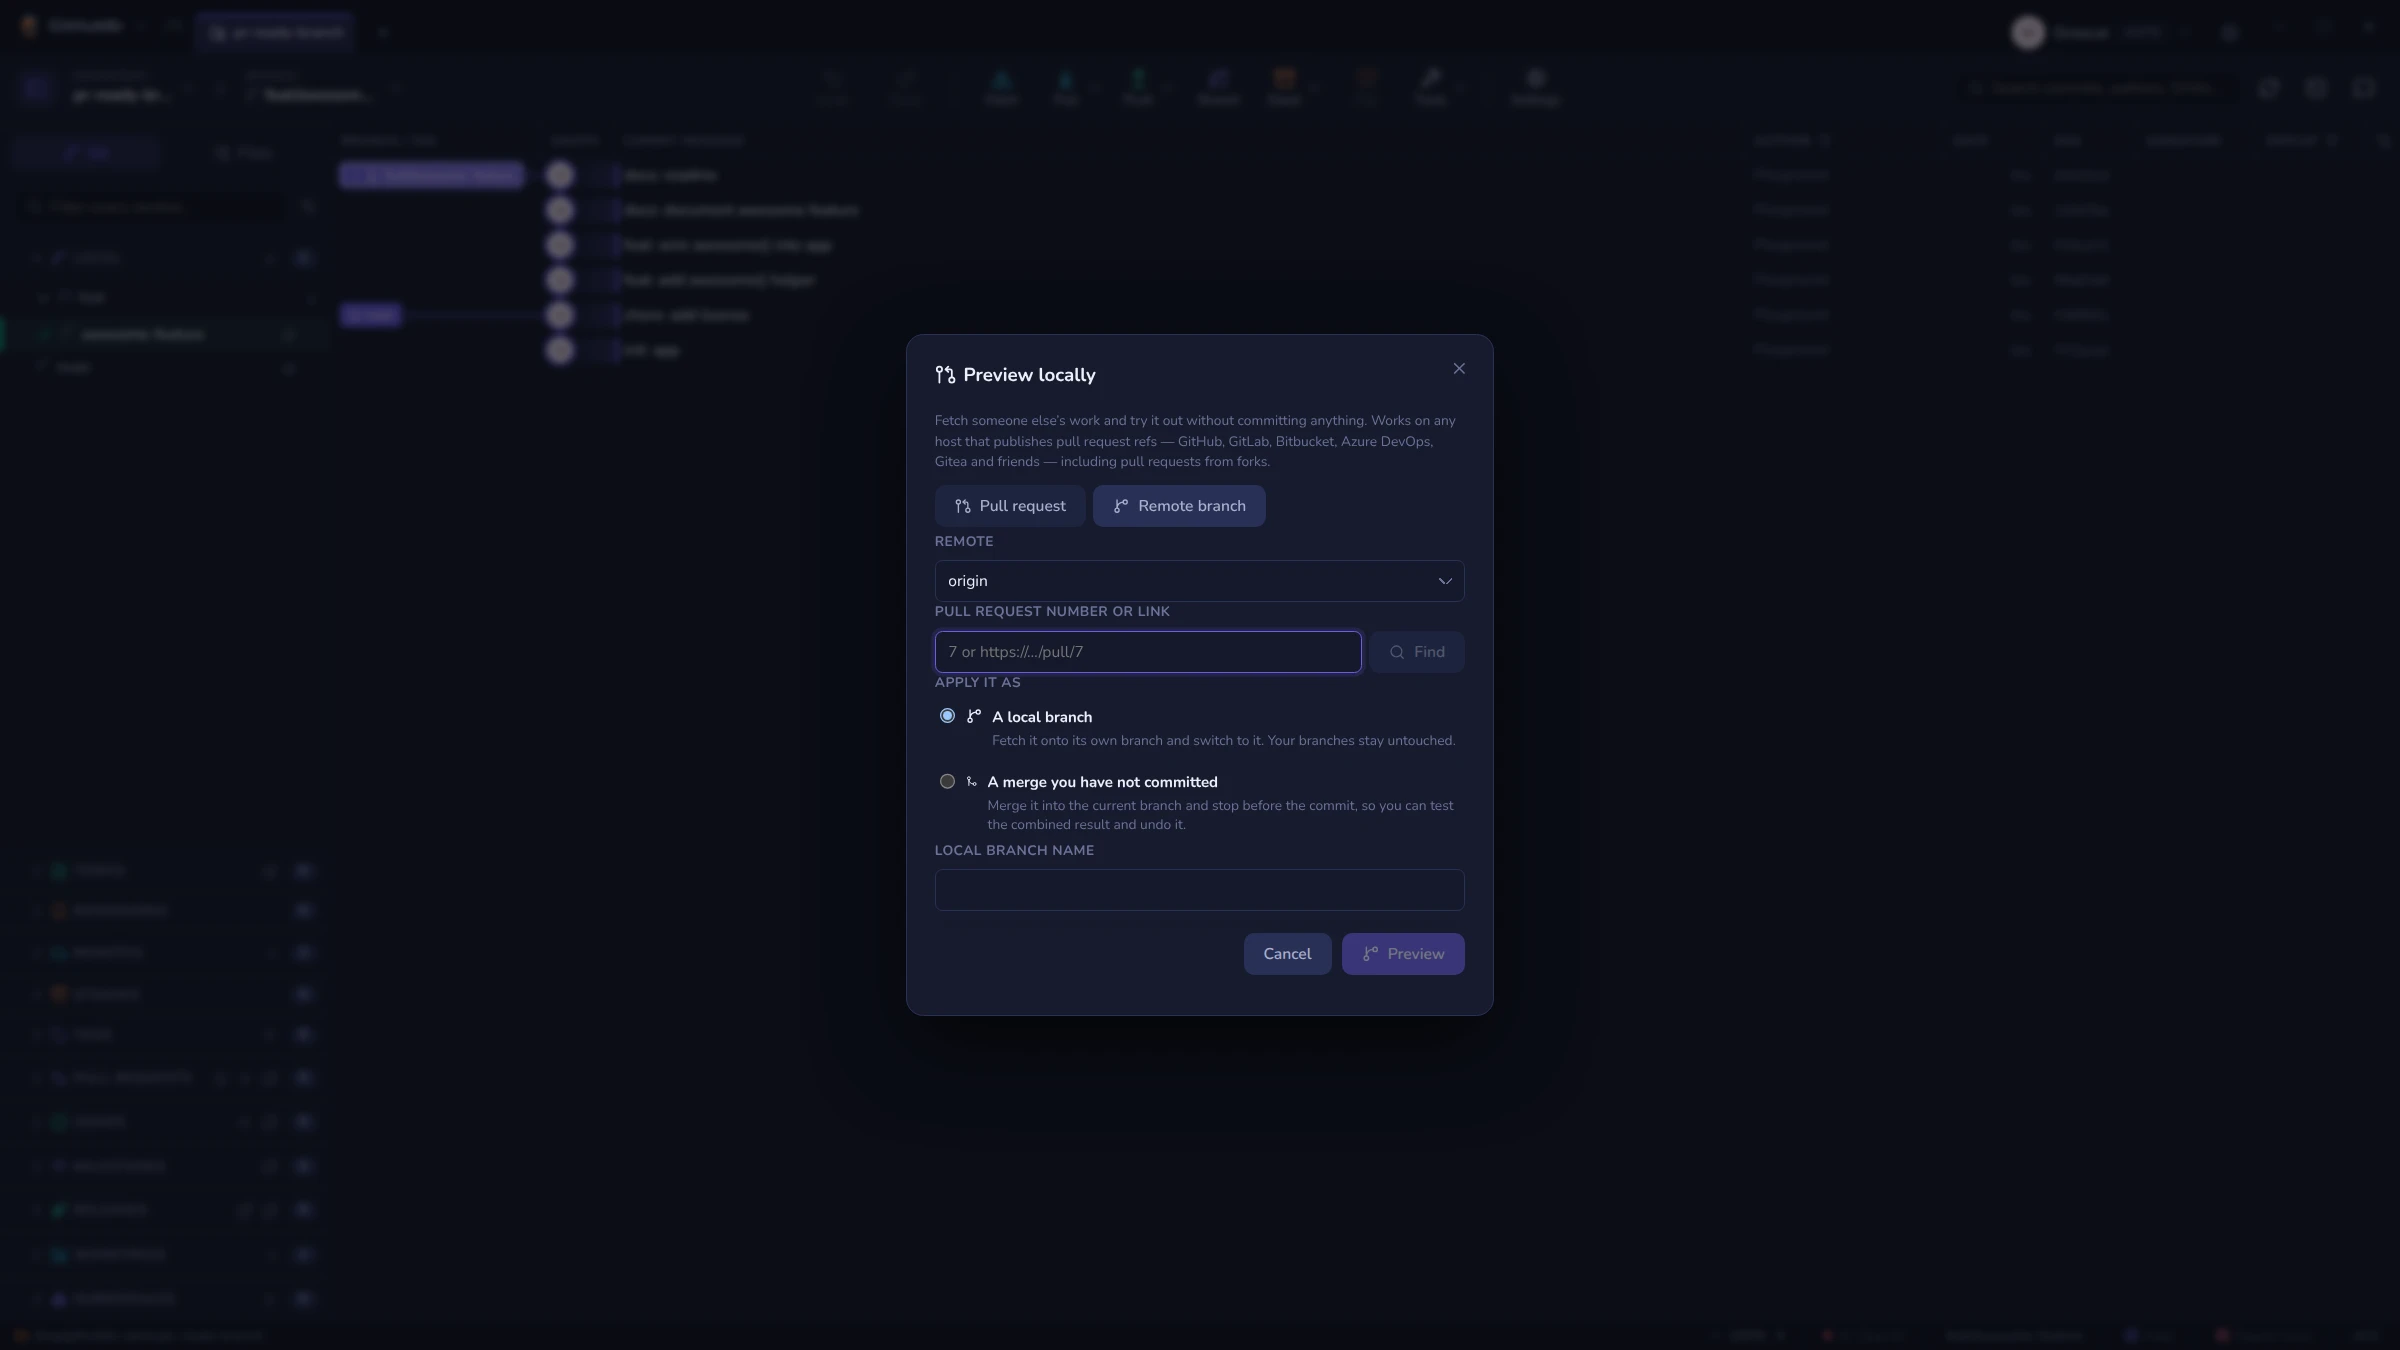
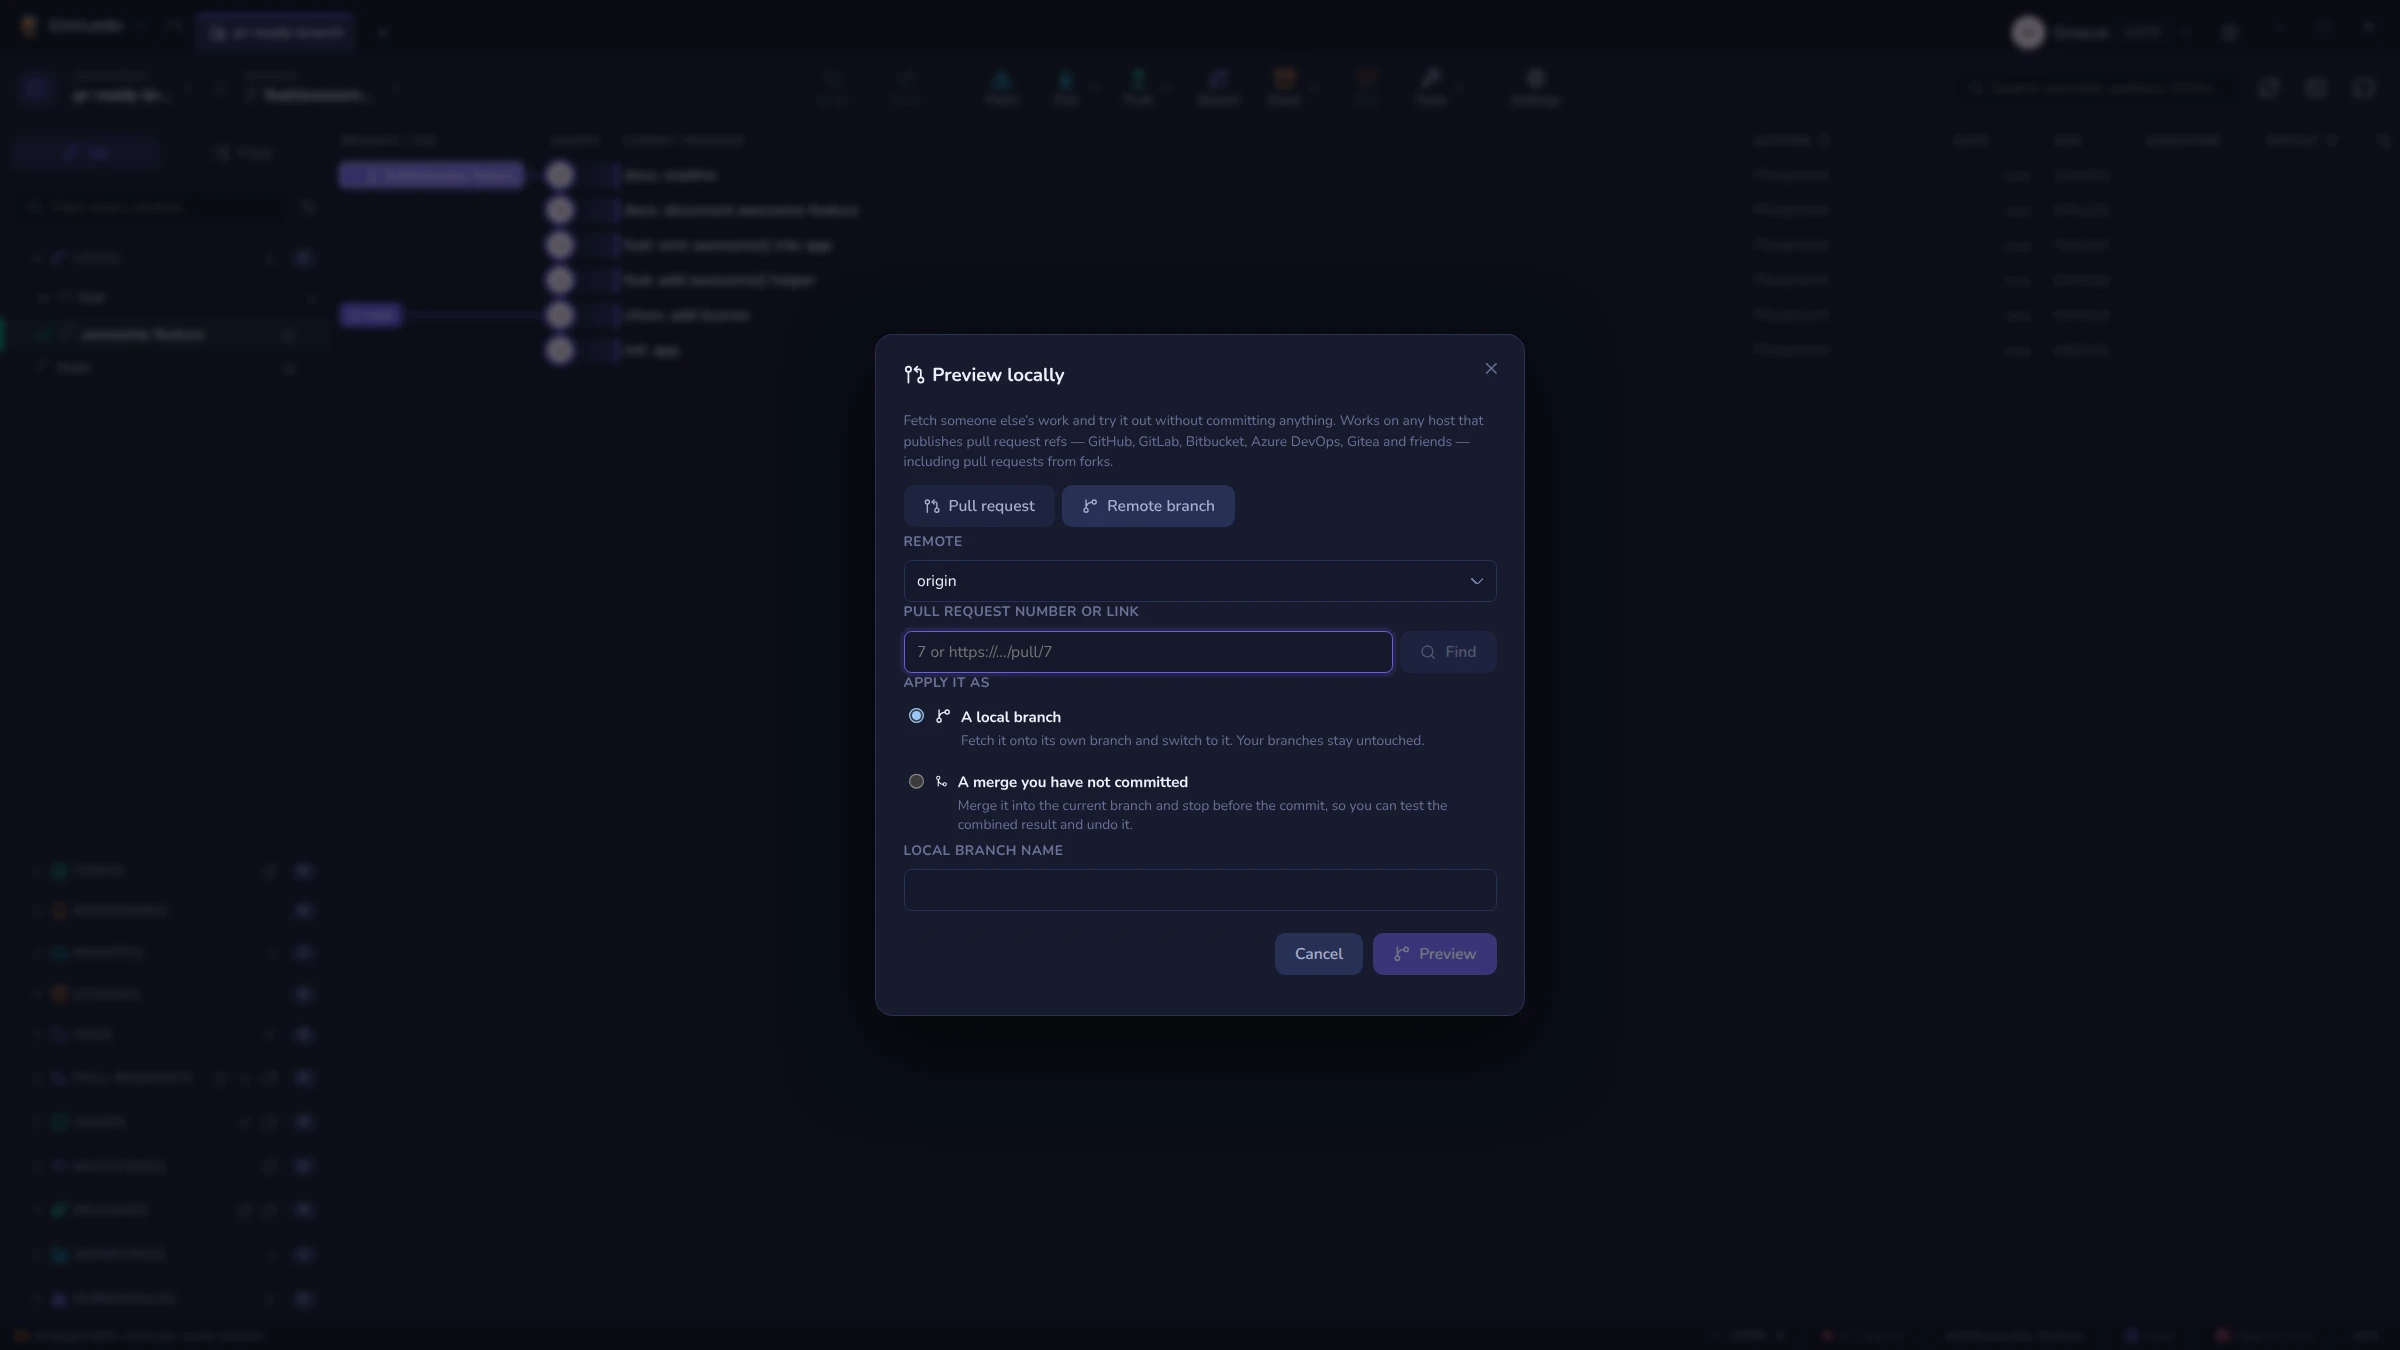
fix(modals): preview locally 50px wider than the standard dialog

Changed region(s): [[0.3438, 0.2489, 0.6562, 0.7467]]

diff --git a/src/renderer/src/components/ModalHost.tsx b/src/renderer/src/components/ModalHost.tsx
@@ -2485,6 +2485,8 @@ export function ModalHost(): React.JSX.Element {
                   ? 'modal-branch-cleanup'
                   : modal.kind === 'create-pr'
                   ? 'modal-create-pr'
+                  : modal.kind === 'pr-preview'
+                  ? 'modal-std modal-pr-preview'
                   : modal.kind === 'settings'
                   ? 'modal-wide modal-settings'
                   : modal.kind === 'settings-import' || modal.kind === 'settings-export'

diff --git a/src/renderer/src/styles.css b/src/renderer/src/styles.css
@@ -6632,6 +6632,9 @@ body.col-resizing .node-ava {
   max-height: calc(100vh - 40px);
   padding-bottom: 10px;
 }
+/* Preview locally: 50px over the standard width, so the pr ref, the remote
+   and the worktree path read on one line. */
+.modal.modal-std.modal-pr-preview { width: calc(var(--modal-w) + 50px); }
 .modal-scroll {
   flex: 1 1 auto;
   min-height: 0;
